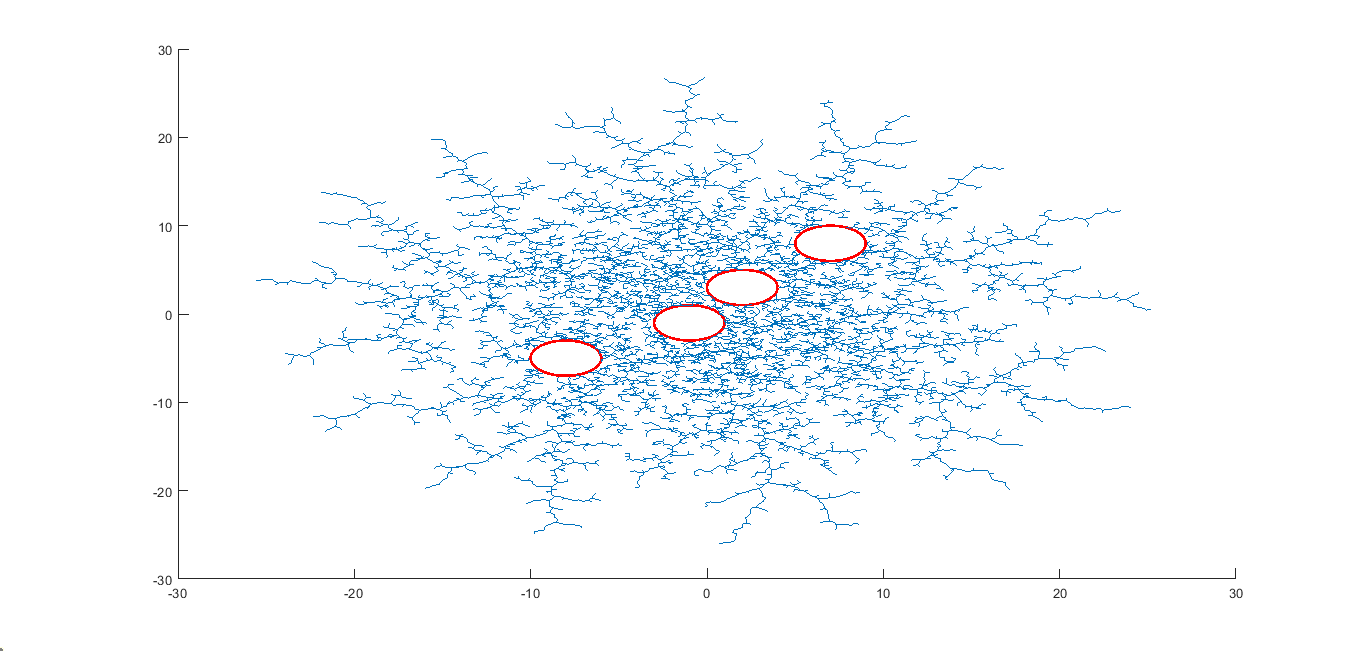
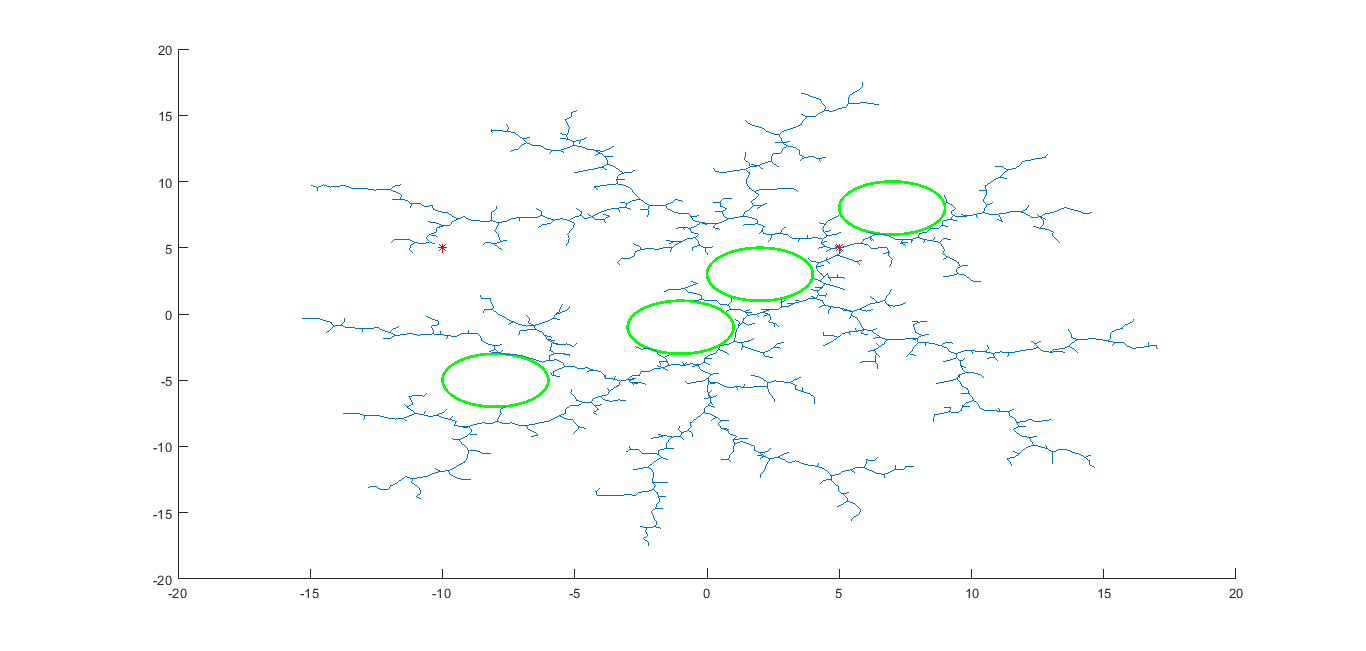
updated

diff --git a/path_planning_rrt.m b/path_planning_rrt.m
@@ -1,8 +1,8 @@
-ITER = 1e4; 
+ITER = 1500; 
 
 start_point = [5 5];
 
-goal_point = [30 25];
+goal_point = [-10 5];
 
 map = [start_point]; 
 epsilon = 0.3; 
@@ -12,8 +12,13 @@ obstacles = [2 3 2;
              7 8 2;
              -1 -1 2;
              -8 -5 2]; %centers and radii
-viscircles(obstacles(:, 1:end-1) ,obstacles(:, end))
+viscircles(obstacles(:, 1:end-1) ,obstacles(:, end), 'Color', 'g')
 
+
+ hold on
+ plot(start_point(1),start_point(2),'r*')
+ plot(goal_point(1),goal_point(2),'r*')
+ 
 for i=1:ITER-1
     
     
